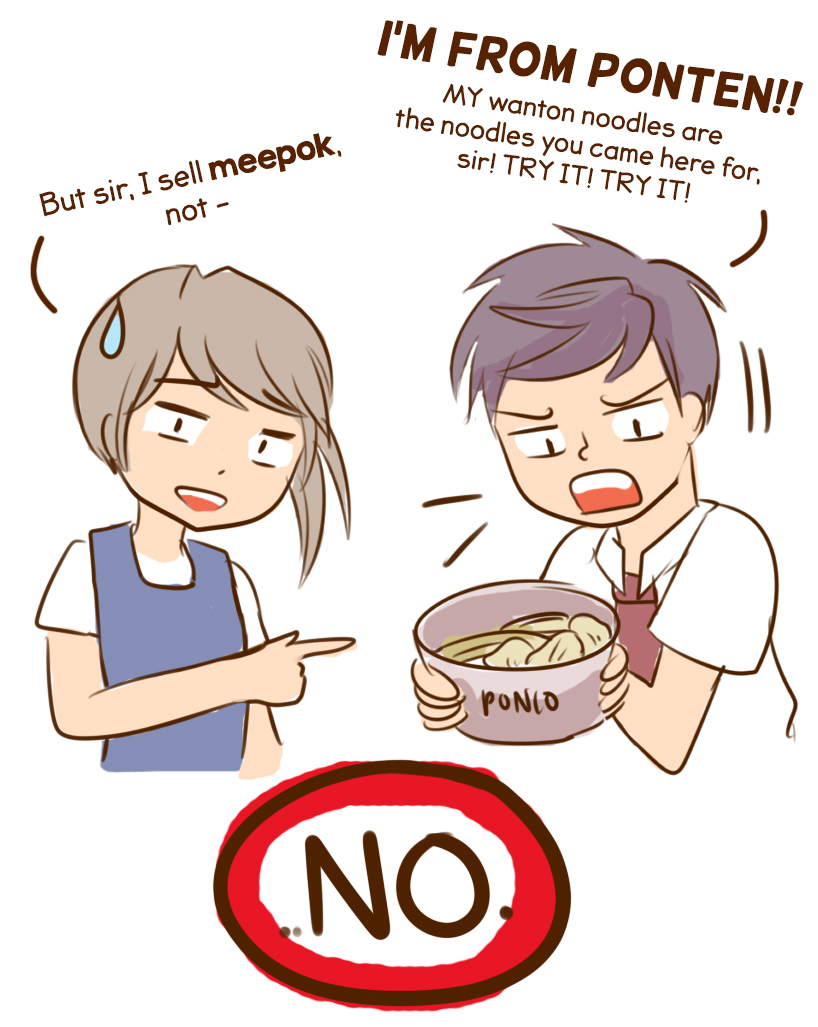
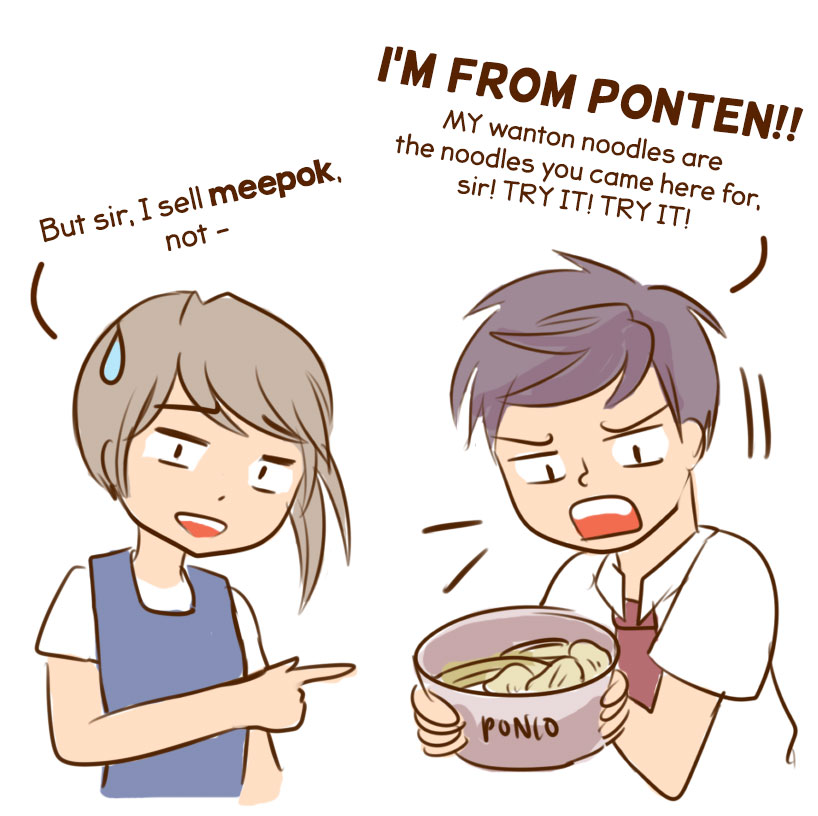
animation n new ending sites
folders for ending images, ending sites, and managed to do the “no”
animation

diff --git a/WEBSITE/index.html b/WEBSITE/index.html
@@ -495,11 +495,11 @@ a {
 }
 #apDiv59 {
 	position: absolute;
-	width: 200px;
-	height: 115px;
+	width: 1102px;
+	height: 1131px;
 	z-index: 55;
-	left: 455px;
-	top: 39800px;
+	left: 403px;
+	top: 39680px;
 }
 #apDiv60 {
 	position: absolute;
@@ -686,23 +686,6 @@ a {
 	left: 615px;
 	top: 42554px;
 }
-#apDiv83 {
-	position: absolute;
-	width: 152px;
-	height: 107px;
-	z-index: 77;
-	left: 409px;
-	top: 116px;
-	background-color: #FFFFFF;
-}
-#apDiv84 {
-	position: absolute;
-	width: 200px;
-	height: 115px;
-	z-index: 101;
-	left: 409px;
-	top: 116px;
-}
 #apDiv85 {
 	position: absolute;
 	width: 114px;
@@ -722,11 +705,11 @@ a {
 }
 #apDiv87 {
 	position: absolute;
-	width: 244px;
-	height: 109px;
+	width: 447px;
+	height: 279px;
 	z-index: 103;
-	left: 735px;
-	top: 40624px;
+	left: 738px;
+	top: 40681px;
 }
 
 </style>
@@ -904,7 +887,7 @@ soundTrig("apDiv67","crowdtalking");
 <div id="apDiv57" class="wow fadeIn"><img src="_images/meepokqueen7_01.jpg" width="818" height="1027" /></div>
 <div id="apDiv67"></div>
 <div id="apDiv58" class="wow fadeIn"><img src="_images/meepokqueen7_02.jpg" width="818" height="1027" /></div>
-<div id="apDiv59" class="wow fadeIn"><img src="_images/meepokqueen7_03.jpg" width="818" height="1027" /></div><div id="apDiv87" class="wow bounceInDown"><img src="_images/no.png" width="236" height="117" /></div>
+<div id="apDiv59" class="wow fadeIn"><img src="_images/meepokqueen7_03.jpg" width="974" height="1027" /></div><div id="apDiv87" class="wow bounceInDown" data-wow-delay="1s"><img src="_images/no.png" width="377" height="255" /></div>
 
 
 <div id="apDiv60" class="wow fadeIn"><img src="_images/meepokqueen7_04.jpg" width="818" height="1027" /></div>
@@ -912,8 +895,7 @@ soundTrig("apDiv67","crowdtalking");
 <div id="apDiv86" class="wow tada" data-wow-delay="1s"><img src="_images/HLsmall.png" width="112" height="66" /></div>
 <div id="apDiv82" class="wow fadeIn" data-wow-delay="2s"><img src="_images/mouth.png" width="63" height="33" /></div>
 <div id="apDiv17" class="wow fadeIn" data-wow-offset="50" data-wow-duration="1.2s"><img src="_images/makethechoice.jpg" width="818" height="701" />
-  <div id="apDiv83"> </div>
-  <div id="apDiv84" class="wow fadeIn" data-wow-delay="2s"><img src="_images/speechbubble.png" width="149" height="112" /></div>
+  
 <div id="apDiv20" class="wow fadeIn" data-wow-delay="2s">
   <a href="branch1.html">a) I have to take care of my mother.</a><P>
   	<a href="branch2.html">b) I must study for 'A' Levels.</a><P>

diff --git a/WEBSITE/ending1.html b/WEBSITE/ending1.html
@@ -1,0 +1,10 @@
+<!DOCTYPE html PUBLIC "-//W3C//DTD XHTML 1.0 Transitional//EN" "http://www.w3.org/TR/xhtml1/DTD/xhtml1-transitional.dtd">
+<html xmlns="http://www.w3.org/1999/xhtml">
+<head>
+<meta http-equiv="Content-Type" content="text/html; charset=UTF-8" />
+<title>Meepok Queen</title>
+</head>
+
+<body>
+</body>
+</html>

diff --git a/WEBSITE/ending2.html b/WEBSITE/ending2.html
@@ -1,0 +1,10 @@
+<!DOCTYPE html PUBLIC "-//W3C//DTD XHTML 1.0 Transitional//EN" "http://www.w3.org/TR/xhtml1/DTD/xhtml1-transitional.dtd">
+<html xmlns="http://www.w3.org/1999/xhtml">
+<head>
+<meta http-equiv="Content-Type" content="text/html; charset=UTF-8" />
+<title>Meepok Queen</title>
+</head>
+
+<body>
+</body>
+</html>
